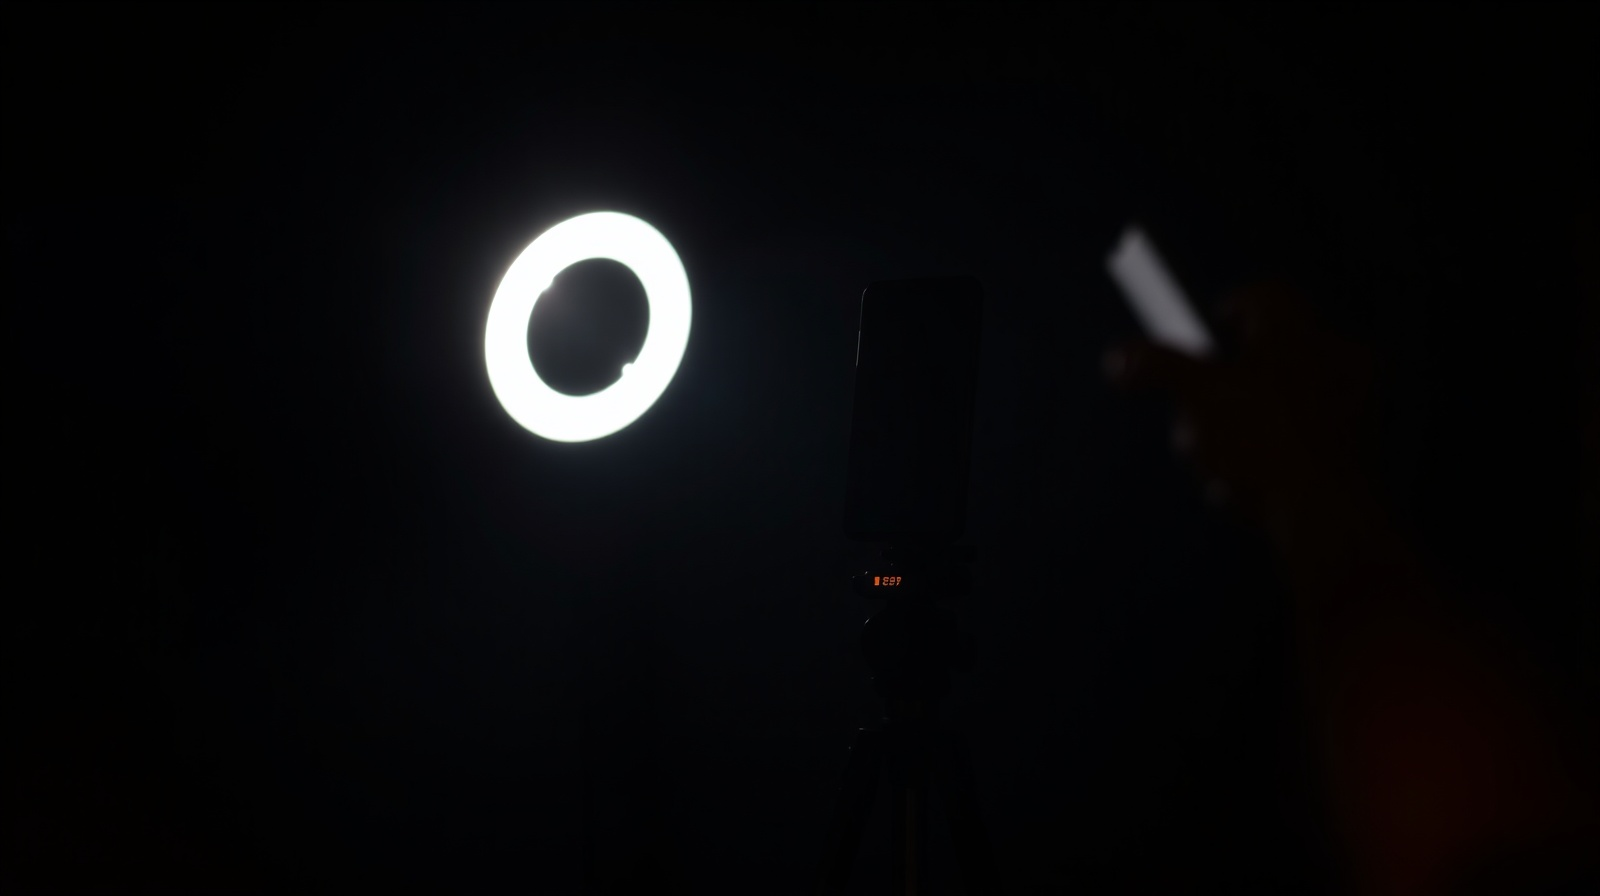
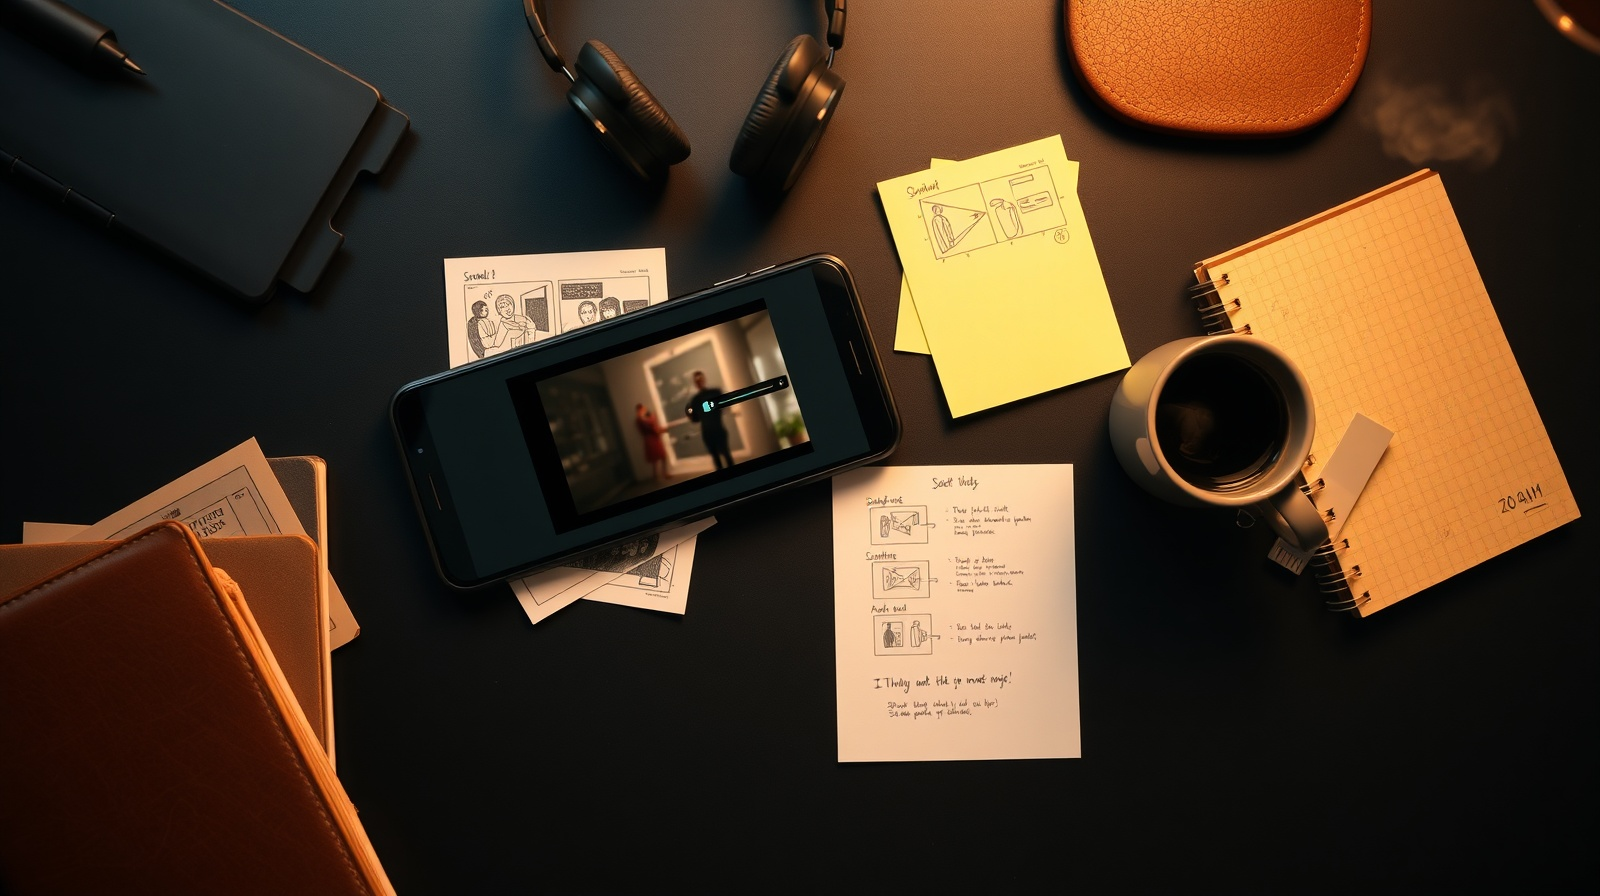
Social media service hero: swap ring-light shot for editorial flat lay
The ring-light + tripod silhouette was too flat and read as meaningless.
Replaced with a top-down content-creator desk flat lay (phone, storyboard
cards, sticky notes, notebook, coffee, lavalier mic) — same warm amber
side light, more narrative.

diff --git a/lib/services.ts b/lib/services.ts
@@ -92,7 +92,7 @@ export const SERVICES: Service[] = [
     image: "/generated/services/sosyal-medya-icerik.jpg",
     heroImage: "/generated/service-hero/sosyal-medya-icerik.jpg",
     imagePrompt: "Abstract dark composition representing social content: floating vertical phone-shaped glass panels in deep black space, blurred glowing reels frames, soft motion trails, warm amber accent glow, minimal cinematic look, no text, no logos.",
-    heroImagePrompt: "Cinematic dark editorial scene of a content studio: ring light glow off camera, vertical smartphone on a tripod silhouetted, soft amber rim light, deep black background, moody premium agency aesthetic, ultra detailed, no text.",
+    heroImagePrompt: "Cinematic top-down editorial flat lay on a matte black desk: a smartphone face-up showing a blurred vertical video grid, scattered storyboard sketch cards, sticky notes, a leather notebook, a coffee cup with steam, headphones, a small clip-on lavalier mic — all arranged casually, warm amber side light, deep blacks, soft volumetric haze, shallow depth of field, ultra detailed, premium editorial agency mood, no readable text, no logos.",
   },
   {
     n: "04",
